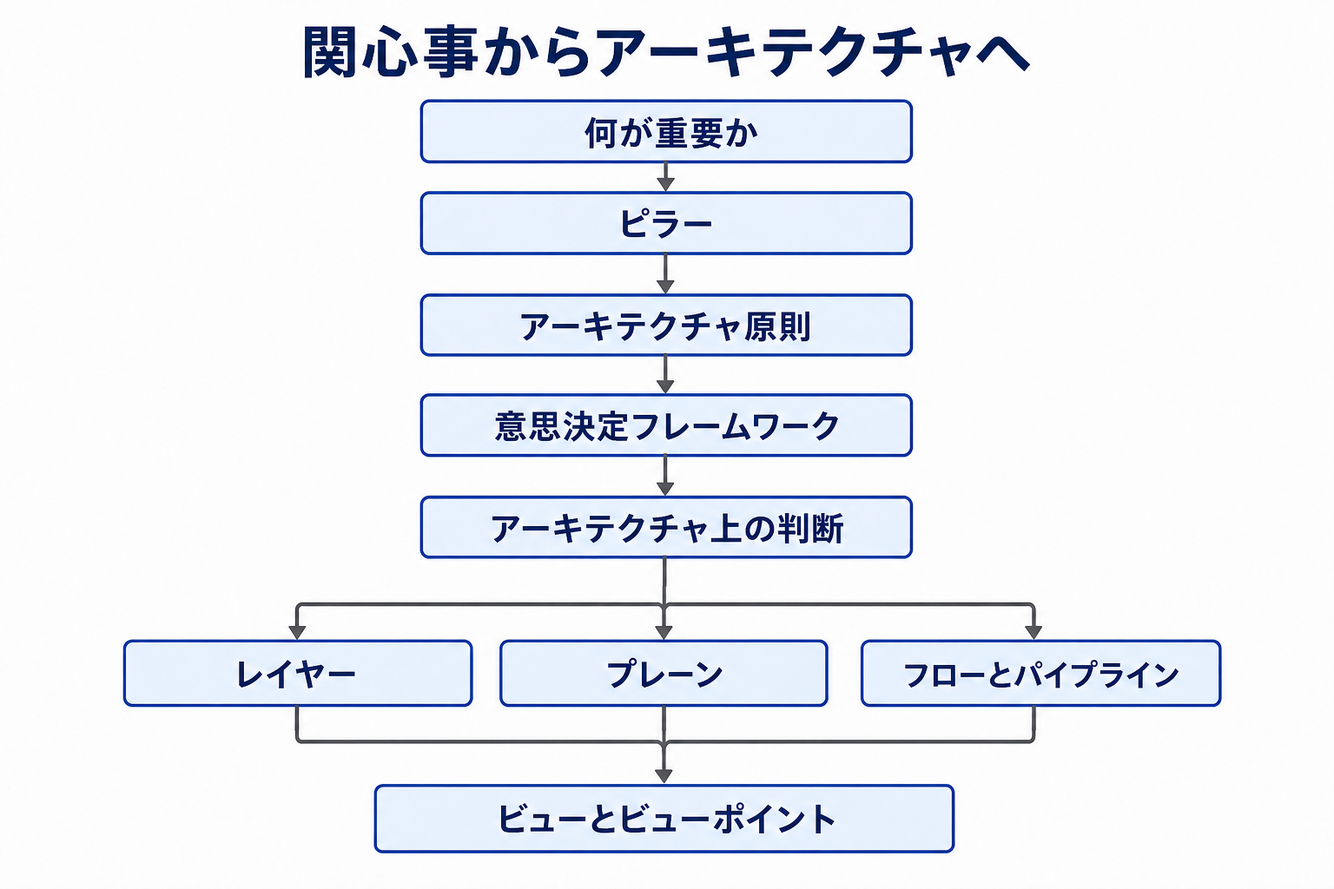
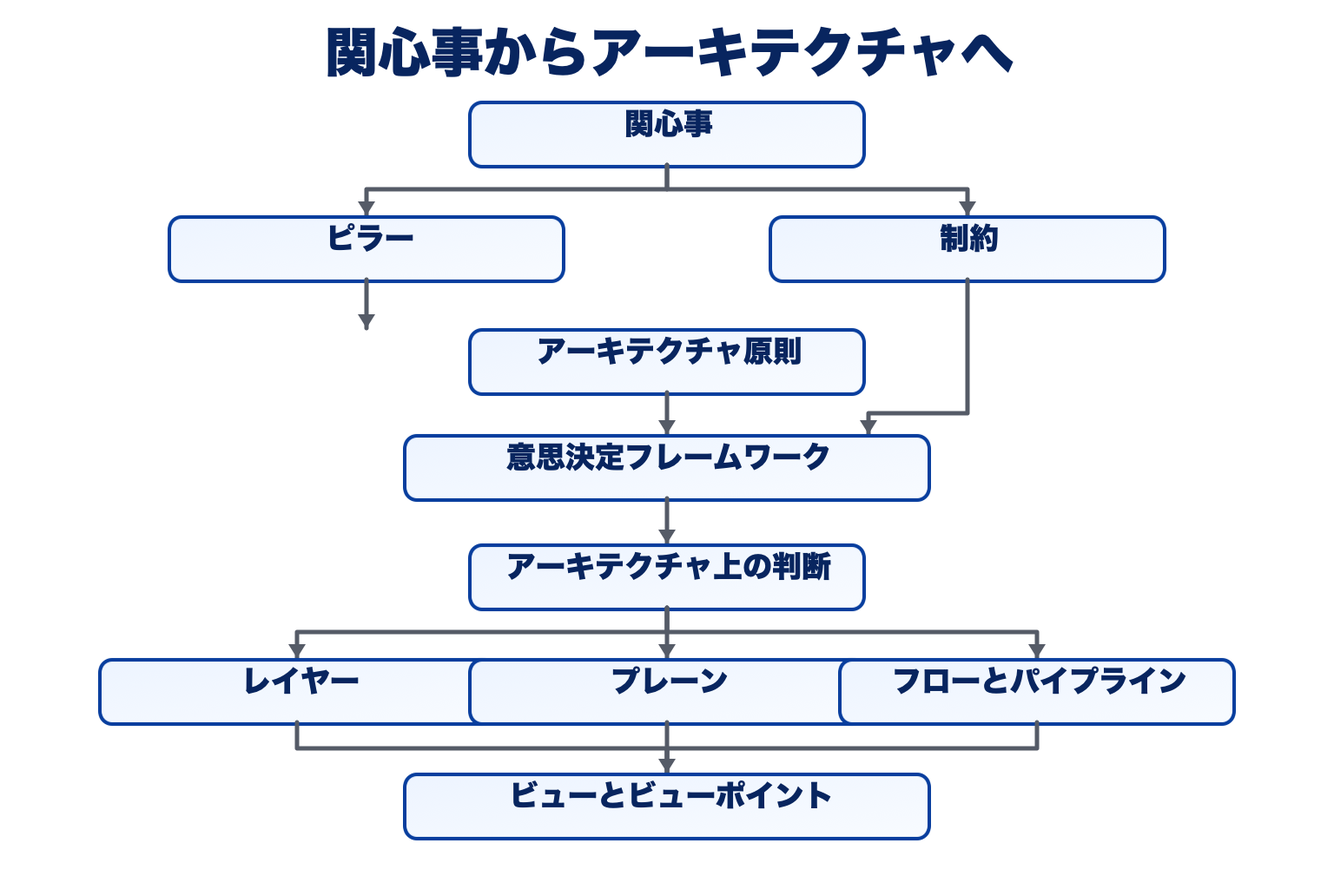
Add architecture constraints documentation

Changed region(s): [[0.0625, 0.0312, 0.9375, 0.9688]]

diff --git a/content/docs/arch/constraints/_index.ja.md b/content/docs/arch/constraints/_index.ja.md
@@ -1,0 +1,84 @@
+---
+date: "2026-09-10T00:00:00+09:00"
+title: "アーキテクチャ制約"
+weight: 10
+prev: "/docs/arch/principles"
+next: "/docs/arch"
+---
+
+アーキテクチャ制約は、チームが設計判断を行う前に、解の空間を境界づける条件です。システムが必ず満たすこと、してはならないこと、依存できないことを定めます。制約を明示すれば、最初から実行不可能な選択肢を擁護する時間を減らせます。
+
+## 定義
+
+制約とは、アーキテクチャ上の判断を制限する条件です。技術、デプロイ先、連携方式、運用モデル、期限などを選択肢から除外します。単に重要な選好ではありません。真正な制約に反する選択肢は、その制約を持つ権限者が条件を変更しない限り、採用できません。
+
+顧客データ基盤を設計するチームを考えます。**顧客データは日本国内に保持しなければならない**は制約です。個人を特定できる顧客データを国外のリージョンへ複製する案は、その背景にある法令、契約、ポリシーを変更せずには選べません。一方、**マネージドサービスを優先する**は、実行可能な案の間での方向づけです。セルフホスティングでも、追加の運用コストを上回る根拠があれば正当化できます。
+
+```text
+制約   → 何を必ず行う／行ってはならないか
+原則   → 通常はどの方向を優先するか
+判断   → この状況で何を選ぶか
+```
+
+## 制約の源泉
+
+制約はコードベースだけでなく、システムが置かれた環境から生まれます。代表的な源泉は次のとおりです。
+
+- 法令、規制、契約、データ所在地に関する約束
+- セキュリティ要件、信頼境界、リスク受容に関する判断
+- 既存の基盤、インターフェース、データ形式、移行の約束
+- 予算、期限、人員、運用能力
+- 物理的な場所、ネットワーク遅延、ハードウェア、ベンダーの提供範囲
+- 事業方針、顧客への約束、組織上の責任分担
+
+源泉を記録すると、誰が制約を解釈、検証、変更できるかが分かります。「日本国内に保持する」は、法令、顧客契約、社内ポリシー、リスク判断のどれに基づくかを明らかにするべきです。
+
+## ハード制約とソフト制約
+
+ハード制約は、選択肢が必ず満たさなければならない条件です。法令、契約、セキュリティポリシー、固定されたインターフェース、交渉できない期限などが該当します。詳細な比較に進む前に確認します。
+
+ソフト制約は、明示的な承認と結果の理解があれば緩和できる強い制限です。固定されたリリース日、優先リージョン、予算上限は、スポンサーが変更を承認できるならソフト制約になり得ます。これは重要でないという意味ではなく、所有者、エスカレーション経路、例外のコストを明らかにするということです。
+
+重要なのは、チームがその条件に反する案を正当に選べるか、誰が例外を承認できるかです。
+
+## 制約と原則の違い
+
+[アーキテクチャ原則](../principles/) は、複数の判断にまたがる持続的な指針です。既定の方向と説明責任を定めますが、通常は複数の選択肢を残します。制約は、そもそも検討できる範囲を定めます。
+
+| 概念     | 問い                             | 選択肢への効果                   | 例                                           |
+| -------- | -------------------------------- | -------------------------------- | -------------------------------------------- |
+| **制約** | 何を必ず行う／行ってはならないか | 適合しない選択肢を除外する       | 顧客データは日本国内に保持する               |
+| **原則** | 通常はどの方向を優先するか       | 実行可能な選択肢の既定値を定める | マネージドサービスを優先する                 |
+| **判断** | この状況で何を選ぶか             | 文脈に応じた選択肢へコミットする | 日本リージョンのマネージドデータベースを使う |
+
+選好を制約と呼べば、通常のトレードオフまで不可能に見えてしまいます。真正な境界を原則と呼べば、適合性を任意のものとして扱うことになります。両者は関連しますが、別々に記述するべきです。
+
+## 意思決定における制約
+
+[意思決定フレームワーク](../decision-frameworks/) では、代替案を順位づける前に制約を明らかにします。判断の対象を定め、制約、その源泉、所有者、根拠を記録します。ハード制約に適合しない案を除外してから、残る案を原則、ピラー、コスト、リスク、可逆性、根拠で比較します。
+
+顧客データ基盤では、まず「日本国内に保持する」が、保存、処理、バックアップ、サポートアクセス、テレメトリー、災害復旧のどこまでを含むかを確認します。その範囲を満たせない案を除外します。残る案では、マネージドサービスを優先する原則が、日本リージョンのマネージドデータベースを後押しします。該当するサービスがないなら、セルフホストを選び、データ所在地の制約を例外の理由として記録できます。
+
+ハード制約に反するマネージドサービスは「より良い」案ではなく、実行不可能な案です。一方、承認されたセルフホスト案は、制約が可能な範囲を変えたとき、必ずしも原則の失敗ではありません。
+
+## 制約の検証と見直し
+
+重要な制約ごとに、条件文、源泉、適用範囲、所有者、検証方法、見直し条件を記録します。曖昧な表現は、法務、セキュリティ、運用、プロダクト、顧客との約束を担う人と確認します。
+
+契約の終了、規制解釈の明確化、基盤の機能追加、移行の完了、期限や予算の再交渉など、源泉が変わったときに見直します。制約は廃止または縮小できても、黙って消すべきではありません。
+
+## よくある誤り
+
+**前提を制約として扱うこと。** コスト、遅延、製品機能について未検証の考えは、選択肢を除外する境界ではなく、検証すべき根拠です。
+
+**源泉や所有者を記録しないこと。** 曖昧さを解消できず、誰が例外を承認できるかも分かりません。
+
+**設計を選んでから制約を見つけること。** 手戻りを生み、適合しない案を正当化したくなる原因になります。
+
+**選好でトレードオフを隠すこと。** 「常にマネージドサービスを使う」は、責任を持つ権限者が必須規則と定めない限り、原則です。
+
+**一時的な制限を見直さないこと。** 移行上の制限、期限、ベンダーの機能は変わります。組織の伝承として残すと、将来の選択肢を不必要に狭めます。
+
+## 要約
+
+アーキテクチャ制約は、判断の前に解の空間を境界づけます。原則は実行可能な選択肢の中で優先する方向を示し、意思決定フレームワークは文脈に応じた選択と結果を明示します。役割を分けることで、アーキテクチャの判断はより速く、明確になり、見直しやすくなります。

diff --git a/content/docs/arch/constraints/_index.md b/content/docs/arch/constraints/_index.md
@@ -1,0 +1,84 @@
+---
+date: "2026-09-10T00:00:00+09:00"
+title: "Architecture Constraints"
+weight: 10
+prev: "/docs/arch/principles"
+next: "/docs/arch"
+---
+
+Architecture constraints define the limits of the solution space before a team makes a design decision. They state what a solution must do, must not do, or cannot rely on, so teams do not spend time defending options that were never viable.
+
+## Definition
+
+A constraint is a condition that bounds an architecture decision. It may rule out technologies, deployment locations, integration patterns, operating models, or timelines. It is not simply an important preference: an option that violates a genuine constraint is not acceptable unless the authority that owns it changes the condition.
+
+Consider a team designing a customer-data platform. **Customer data must remain in Japan** is a constraint. An option that replicates identifiable customer data to another region cannot be selected without changing the legal, contractual, or policy condition behind that requirement. By contrast, **prefer managed services** is a direction for choosing among viable options; a self-hosted design can still be justified when its advantages outweigh its additional operational cost.
+
+```text
+Constraint → What must / cannot be done?
+Principle  → What direction do we normally prefer?
+Decision   → What do we choose in this situation?
+```
+
+## Sources of Constraints
+
+Constraints arise from the environment in which a system operates, not only from its codebase. Common sources include:
+
+- Laws, regulation, contracts, and data-residency commitments
+- Security requirements, trust boundaries, and risk acceptance decisions
+- Existing platforms, interfaces, data formats, and migration commitments
+- Budget, delivery date, staffing, and operational capability
+- Physical location, network latency, hardware, or vendor availability
+- Business policy, customer commitments, and organizational ownership
+
+The source tells the team who can interpret, verify, or change the constraint. “Data must remain in Japan” should identify whether it follows from legislation, a customer contract, an internal policy, or a risk decision.
+
+## Hard vs. Soft Constraints
+
+Hard constraints are conditions an option must satisfy. They are commonly enforced by law, contract, security policy, a fixed interface, or a non-negotiable delivery boundary. They should be tested early, before detailed comparison of alternatives.
+
+Soft constraints are strong limits that can be relaxed with explicit approval and understood consequences. A fixed launch date, preferred cloud region, or spending ceiling may be soft when a sponsor can authorize a change. This makes the owner, escalation path, and cost of exception visible.
+
+Avoid using _hard_ and _soft_ as substitutes for “important” and “unimportant.” The relevant question is whether a team can legitimately select an option that violates the condition, and who has the authority to approve that exception.
+
+## Constraints vs. Principles
+
+[Architecture Principles](../principles/) provide durable guidance across decisions. They establish defaults and a burden of proof, but normally leave several options open. Constraints determine the boundary of what can be considered at all.
+
+| Concept        | Question                     | Effect on options                          | Running example                     |
+| -------------- | ---------------------------- | ------------------------------------------ | ----------------------------------- |
+| **Constraint** | What must or cannot be done? | Removes non-compliant options              | Customer data must remain in Japan  |
+| **Principle**  | What do we normally prefer?  | Establishes a default among viable options | Prefer managed services             |
+| **Decision**   | What do we choose here?      | Commits to an option in context            | Use a Japan-region managed database |
+
+The distinction prevents two common errors. Calling a preference a constraint makes normal tradeoffs appear impossible. Calling a genuine boundary a principle lets teams treat compliance as optional. A principle may be motivated by constraints, and a constraint may justify an exception to a principle, but they should remain separately stated.
+
+## Constraints in Decision-Making
+
+A [decision framework](../decision-frameworks/) should surface constraints before it ranks alternatives. Start by naming the decision, then record the constraints, their source, owner, and evidence. Eliminate options that fail hard constraints. Only then compare the remaining options against principles, pillars, costs, risks, reversibility, and evidence.
+
+For the customer-data platform, the team first confirms what “remain in Japan” covers: storage, processing, backups, support access, telemetry, and disaster recovery may have different implications. It then removes designs that cannot meet that scope. Within the remaining set, the managed-services principle favors a Japan-region managed database. If none satisfies the requirement, the team may choose a self-hosted database and record residency as the reason for departing from the default.
+
+This order keeps discussion honest. A managed service is not “better” if it violates a hard residency constraint; it is simply not viable. Conversely, an approved self-hosted option is not necessarily a failure of the principle when the constraint changes what is possible.
+
+## Validating and Revisiting Constraints
+
+Constraints deserve evidence and maintenance. For each material one, record the statement, source, scope, owner, verification, and review trigger. Test ambiguous wording with the people responsible for legal, security, operations, product, or customer commitments.
+
+Revisit a constraint when its source changes: a contract expires, a regulation is clarified, a platform gains a capability, a migration completes, or a deadline and budget are renegotiated. It may be retired or narrowed, but should never disappear silently.
+
+## Common Mistakes
+
+**Treating assumptions as constraints.** An untested belief about cost, latency, or product capability should be evidence to validate, not a boundary that eliminates options.
+
+**Leaving the source or owner unstated.** Without them, teams cannot resolve ambiguity or know who may approve an exception.
+
+**Discovering constraints after choosing a design.** Late discovery turns a decision into rework and encourages teams to rationalize a non-compliant option.
+
+**Using a preference to hide a tradeoff.** “We always use managed services” is a principle unless an accountable authority has made it a mandatory rule.
+
+**Never reviewing temporary limits.** Migration restrictions, deadlines, and vendor capabilities change. Retaining them as permanent folklore unnecessarily shrinks future choices.
+
+## Summary
+
+Architecture constraints bound the solution space before a decision is made. Principles then guide the preferred direction among the viable options, and decision frameworks make the contextual choice and its consequences explicit. Keeping those roles separate makes architecture reasoning faster, clearer, and easier to revisit.

diff --git a/content/docs/arch/_index.ja.md b/content/docs/arch/_index.ja.md
@@ -30,7 +30,7 @@ weight: 1
 
 ### 主要な構成要素はどのように連携するか
 
-[フローとパイプライン](dimensions/flows-and-pipelines/) を使い、構成要素の間を通るリクエスト、イベント、データ、障害経路を追います。 [アーキテクチャ原則](principles/) を使って組織の持続的な指針を [意思決定フレームワーク](decision-frameworks/) へ取り込み、その連携を関心事、トレードオフ、アーキテクチャ上の判断へ結びつけます。特定の読者に結果を説明するときは、 [ビューとビューポイント](dimensions/views-and-viewpoints/) に立ち返ります。
+[フローとパイプライン](dimensions/flows-and-pipelines/) を使い、構成要素の間を通るリクエスト、イベント、データ、障害経路を追います。 [アーキテクチャ原則](principles/) で組織の持続的な指針を、 [アーキテクチャ制約](constraints/) で選択肢が満たすべき境界を定めてから、 [意思決定フレームワーク](decision-frameworks/) へ進みます。特定の読者に結果を説明するときは、 [ビューとビューポイント](dimensions/views-and-viewpoints/) に立ち返ります。
 
 ### アーキテクチャ・ズームマップ
 
@@ -43,12 +43,12 @@ flowchart LR
   container --> component["コンポーネント<br/>コンテナ内の責務"]
 ```
 
-| ナビゲーションレベル       | 代表的なトピック                                                                                                                                      |
-| -------------------------- | ----------------------------------------------------------------------------------------------------------------------------------------------------- |
-| **システムランドスケープ** | [責任境界](dimensions/ownership-boundaries/)、[ビューとビューポイント](dimensions/views-and-viewpoints/)                                              |
-| **システム**               | [アーキテクチャの観点](dimensions/)、[ピラー](dimensions/pillars/)、[アーキテクチャ原則](principles/)、[意思決定フレームワーク](decision-frameworks/) |
-| **コンテナ**               | [レイヤー](dimensions/layers/)、[プレーン](dimensions/planes/)                                                                                        |
-| **コンポーネント**         | [フローとパイプライン](dimensions/flows-and-pipelines/)、[レイヤー](dimensions/layers/)                                                               |
+| ナビゲーションレベル       | 代表的なトピック                                                                                                                                                                          |
+| -------------------------- | ----------------------------------------------------------------------------------------------------------------------------------------------------------------------------------------- |
+| **システムランドスケープ** | [責任境界](dimensions/ownership-boundaries/)、[ビューとビューポイント](dimensions/views-and-viewpoints/)                                                                                  |
+| **システム**               | [アーキテクチャの観点](dimensions/)、[ピラー](dimensions/pillars/)、[アーキテクチャ原則](principles/)、[アーキテクチャ制約](constraints/)、[意思決定フレームワーク](decision-frameworks/) |
+| **コンテナ**               | [レイヤー](dimensions/layers/)、[プレーン](dimensions/planes/)                                                                                                                            |
+| **コンポーネント**         | [フローとパイプライン](dimensions/flows-and-pipelines/)、[レイヤー](dimensions/layers/)                                                                                                   |
 
 スコープ、ラベル、関係を明示し、1 つの図に異なる抽象度を混在させないことが、図を理解しやすく保つために重要です。[^c4-introduction]
 
@@ -118,11 +118,11 @@ flowchart LR
 ## 関心事からアーキテクチャへ
 
 実務では、この判断と共有のループに、このセクションの概念を個別の用語ではなく、つながった体系として適用します。
-ピラーは何が重要かを示し、原則はその優先事項を持続的な指針へ変換します。
-意思決定フレームワークは、その指針を個別の選択へ適用します。
+ピラーは何が重要かを示し、原則はその優先事項を持続的な指針へ変換します。制約は、検討できる選択肢の範囲を境界づけます。
+意思決定フレームワークは、その両方を個別の選択へ適用します。
 レイヤー、プレーン、フローは結果として得られるアーキテクチャを記述し、ビューは特定の読者に関係する部分を提示します。
 
-![関心事からアーキテクチャへ: ピラーからアーキテクチャ原則、意思決定フレームワーク、アーキテクチャ上の判断へ進み、レイヤー、プレーン、フローとパイプライン、ビューとビューポイントで表現する流れ](from-concern-to-architecture.ja.webp "関心事からアーキテクチャへ")
+![関心事からアーキテクチャへ: 関心事からピラーと制約へ進み、ピラーから原則へ、原則と制約から意思決定フレームワークへ進む。アーキテクチャ上の判断は、レイヤー、プレーン、フローとパイプライン、ビューとビューポイントで表現する](from-concern-to-architecture.ja.webp "関心事からアーキテクチャへ")
 
 このマップは実務的な進行を示しますが、必須の一方向プロセスではありません。
 判断から新しい関心事が見つかることも、ビューによって原則の適用しにくさが分かることも、構造や実行時の分析によって根拠が変わることもあります。
@@ -142,6 +142,7 @@ flowchart LR
 {{< card link="ownership-boundaries/" title="責任境界" icon="map" subtitle="変更、運用、契約、説明責任の分担" >}}
 {{< card link="views-and-viewpoints/" title="ビューとビューポイント" icon="eye" subtitle="関心事から導かれる、対象読者別の伝達成果物" >}}
 {{< card link="principles/" title="アーキテクチャ原則" icon="light-bulb" subtitle="組織の優先事項を制約や選好へ変換する持続的な指針" >}}
+{{< card link="constraints/" title="アーキテクチャ制約" icon="lock-closed" subtitle="アーキテクチャ上の判断の前に、実行可能な選択肢を境界づける条件" >}}
 {{< card link="decision-frameworks/" title="意思決定フレームワーク" icon="scale" subtitle="関心事、観点、トレードオフ、判断をつなぐ方法" >}}
 {{< /cards >}}
 

diff --git a/content/docs/arch/_index.md b/content/docs/arch/_index.md
@@ -30,7 +30,7 @@ Move inward to the system's large structural and operational parts. [Layers](dim
 
 ### How do those building blocks interact?
 
-Use [Flows and Pipelines](dimensions/flows-and-pipelines/) to trace requests, events, data, and failure paths between parts. Use [Architecture Principles](principles/) to carry persistent organizational guidance into [Decision Frameworks](decision-frameworks/), which connect those interactions to concerns, tradeoffs, and architectural decisions. Return to [Views and Viewpoints](dimensions/views-and-viewpoints/) when the result needs to be communicated to a specific audience.
+Use [Flows and Pipelines](dimensions/flows-and-pipelines/) to trace requests, events, data, and failure paths between parts. Use [Architecture Principles](principles/) for persistent organizational guidance and [Architecture Constraints](constraints/) to establish the limits an option must satisfy before it reaches [Decision Frameworks](decision-frameworks/). Return to [Views and Viewpoints](dimensions/views-and-viewpoints/) when the result needs to be communicated to a specific audience.
 
 ### Architecture Zoom Map
 
@@ -43,12 +43,12 @@ flowchart LR
   container --> component["Component<br/>Responsibilities within a container"]
 ```
 
-| Navigation level     | Representative topics                                                                                                                                       |
-| -------------------- | ----------------------------------------------------------------------------------------------------------------------------------------------------------- |
-| **System Landscape** | [Ownership Boundaries](dimensions/ownership-boundaries/), [Views and Viewpoints](dimensions/views-and-viewpoints/)                                          |
-| **System**           | [Architecture Dimensions](dimensions/), [Pillars](dimensions/pillars/), [Architecture Principles](principles/), [Decision Frameworks](decision-frameworks/) |
-| **Container**        | [Layers](dimensions/layers/), [Planes](dimensions/planes/)                                                                                                  |
-| **Component**        | [Flows and Pipelines](dimensions/flows-and-pipelines/), [Layers](dimensions/layers/)                                                                        |
+| Navigation level     | Representative topics                                                                                                                                                                                 |
+| -------------------- | ----------------------------------------------------------------------------------------------------------------------------------------------------------------------------------------------------- |
+| **System Landscape** | [Ownership Boundaries](dimensions/ownership-boundaries/), [Views and Viewpoints](dimensions/views-and-viewpoints/)                                                                                    |
+| **System**           | [Architecture Dimensions](dimensions/), [Pillars](dimensions/pillars/), [Architecture Principles](principles/), [Architecture Constraints](constraints/), [Decision Frameworks](decision-frameworks/) |
+| **Container**        | [Layers](dimensions/layers/), [Planes](dimensions/planes/)                                                                                                                                            |
+| **Component**        | [Flows and Pipelines](dimensions/flows-and-pipelines/), [Layers](dimensions/layers/)                                                                                                                  |
 
 Keeping scope, labels, and relationships explicit prevents a single diagram from mixing abstraction levels and becoming difficult to interpret.[^c4-introduction]
 
@@ -113,9 +113,9 @@ If the concern is executive alignment, the best view may hide most implementatio
 
 ## From Concern to Architecture
 
-In practical architecture work, this reasoning-and-communication loop draws on the concepts in this section as a connected system rather than a flat vocabulary. Pillars identify what matters. Principles translate those priorities into persistent guidance. Decision frameworks apply that guidance to a specific choice. Layers, planes, and flows describe the resulting architecture, while views present the relevant parts to specific audiences.
+In practical architecture work, this reasoning-and-communication loop draws on the concepts in this section as a connected system rather than a flat vocabulary. Pillars identify what matters. Principles translate those priorities into persistent guidance, while constraints bound the options that can be considered. Decision frameworks apply both to a specific choice. Layers, planes, and flows describe the resulting architecture, while views present the relevant parts to specific audiences.
 
-![From Concern to Architecture: pillars inform architecture principles, which guide decision frameworks and produce architecture decisions expressed through layers, planes, flows and pipelines, and views and viewpoints](from-concern-to-architecture.webp "From Concern to Architecture")
+![From Concern to Architecture: a concern informs pillars and constraints; pillars inform principles; principles and constraints enter decision frameworks, which produce architecture decisions expressed through layers, planes, flows and pipelines, and views and viewpoints](from-concern-to-architecture.webp "From Concern to Architecture")
 
 This map is a practical progression, not a mandatory one-way sequence. A decision may expose a new concern, a view may reveal that a principle is difficult to apply, and structural or runtime analysis may change the evidence. The topic pages below explain each part of the system and the questions it helps answer.
 
@@ -133,6 +133,7 @@ Use the topic pages below to move directly to the areas that match the question 
 {{< card link="ownership-boundaries/" title="Ownership Boundaries" icon="map" subtitle="Responsibility for change, operation, contracts, and accountability" >}}
 {{< card link="views-and-viewpoints/" title="Views and Viewpoints" icon="eye" subtitle="Audience-specific communication artifacts derived from architecture concerns" >}}
 {{< card link="principles/" title="Architecture Principles" icon="light-bulb" subtitle="Durable guidance that turns organizational priorities into constraints and preferences" >}}
+{{< card link="constraints/" title="Architecture Constraints" icon="lock-closed" subtitle="The conditions that bound viable options before an architecture decision" >}}
 {{< card link="decision-frameworks/" title="Decision Frameworks" icon="scale" subtitle="How to connect concerns, dimensions, tradeoffs, and decisions" >}}
 {{< /cards >}}
 

diff --git a/content/docs/arch/principles/_index.md b/content/docs/arch/principles/_index.md
@@ -3,7 +3,7 @@ date: "2026-08-30T00:00:00+09:00"
 title: "Architecture Principles"
 weight: 9
 prev: "/docs/arch/decision-frameworks"
-next: "/docs/arch"
+next: "/docs/arch/constraints"
 ---
 
 Architecture principles turn organizational priorities into durable guidance for design decisions. They make a preferred direction explicit before a team becomes attached to a particular technology or implementation.
@@ -74,6 +74,12 @@ A complete principle can be written as follows:
 A pillar is a lens used to judge alternatives. A principle converts one or more of those lenses into guidance that applies across decisions. Operability and cost efficiency may together motivate a managed-services principle. Security and auditability may motivate a principle that every privileged action must produce attributable evidence.
 
 The relationship is not one-to-one. One pillar can produce several principles, and one principle can support several pillars. Keeping the distinction clear prevents pillars from becoming vague slogans and prevents principles from appearing as arbitrary rules.
+
+## Principles vs. Constraints
+
+[Architecture Constraints](../constraints/) and principles both affect choices, but they have different force. A constraint says what must or cannot be done before the team compares designs. A principle states the direction the team normally prefers among the designs that remain viable.
+
+For example, **customer data must remain in Japan** eliminates options that store or process that data outside Japan. **Prefer managed services for undifferentiated infrastructure** does not eliminate every self-hosted option; it makes managed services the default unless evidence justifies an exception. Constraints bound the solution space, while principles guide judgment within it.
 
 ## Principles in Decision-Making
 

diff --git a/content/docs/arch/principles/_index.ja.md b/content/docs/arch/principles/_index.ja.md
@@ -3,7 +3,7 @@ date: "2026-08-30T00:00:00+09:00"
 title: "アーキテクチャ原則"
 weight: 9
 prev: "/docs/arch/decision-frameworks"
-next: "/docs/arch"
+next: "/docs/arch/constraints"
 ---
 
 アーキテクチャ原則は、組織の優先事項を、設計判断に使える持続的な指針へ変換します。
@@ -91,6 +91,12 @@ next: "/docs/arch"
 この関係は 1 対 1 ではありません。
 1 つのピラーから複数の原則が生まれることも、1 つの原則が複数のピラーを支えることもあります。
 両者を区別すると、ピラーが曖昧な標語になることも、原則が根拠のない規則に見えることも防げます。
+
+## 原則と制約の違い
+
+[アーキテクチャ制約](../constraints/) と原則は、どちらも選択へ影響しますが、強さが異なります。制約は、選択肢を比較する前に、何をしなければならないか、何をしてはならないかを定めます。原則は、その範囲で実行可能な選択肢のうち、通常どの方向を優先するかを示します。
+
+たとえば、**顧客データは日本国内に保持しなければならない**という要件は、データを国外で保存または処理する選択肢を除外します。**差別化につながらないインフラにはマネージドサービスを優先する**という原則は、セルフホスティングをすべて除外するものではなく、根拠がない限りマネージドサービスを既定の方向にします。制約は解の空間を境界づけ、原則はその中での判断を導きます。
 
 ## 意思決定における原則
 

diff --git a/content/docs/arch/decision-frameworks/_index.ja.md b/content/docs/arch/decision-frameworks/_index.ja.md
@@ -14,7 +14,7 @@ next: "/docs/arch/principles"
 アーキテクチャの意思決定フレームワークとは、関心事、選択肢、トレードオフ、根拠、結果を結びつける再利用可能な考え方です。
 アーキテクチャを形式だけの儀式へ変えずに、語彙から判断へ進む助けになります。
 
-[アーキテクチャ原則](../principles/) は多くの意思決定を通じて持続する指針を与え、意思決定フレームワークはその指針を個別の選択へ適用します。原則は既定の方向や説明責任の所在を定められますが、フレームワークは引き続き、文脈、根拠、結果に照らして選択肢を検証します。
+[アーキテクチャ原則](../principles/) は多くの意思決定を通じて持続する指針を与え、 [アーキテクチャ制約](../constraints/) は選択肢が満たすべき境界を定めます。意思決定フレームワークは、その両方を個別の選択へ適用します。原則は既定の方向や説明責任の所在を定められますが、フレームワークは引き続き、実行可能な選択肢を文脈、根拠、結果に照らして検証します。
 
 ## なぜ意思決定フレームワークが重要か
 

diff --git a/content/docs/arch/decision-frameworks/_index.md b/content/docs/arch/decision-frameworks/_index.md
@@ -12,7 +12,7 @@ Architecture terminology is useful only when it improves judgment. Teams make we
 
 An architecture decision framework is a repeatable way to connect concerns, options, tradeoffs, evidence, and consequences. It helps teams move from vocabulary to judgment without turning architecture into ceremony for its own sake.
 
-[Architecture Principles](../principles/) provide durable guidance across many decisions; a decision framework applies that guidance while reasoning through one particular choice. A principle can establish a default or burden of proof, but the framework still tests options against context, evidence, and consequences.
+[Architecture Principles](../principles/) provide durable guidance across many decisions, while [Architecture Constraints](../constraints/) define the boundaries an option must satisfy. A decision framework applies both while reasoning through one particular choice. A principle can establish a default or burden of proof, but the framework still tests viable options against context, evidence, and consequences.
 
 ## Why Decision Frameworks Matter
 
